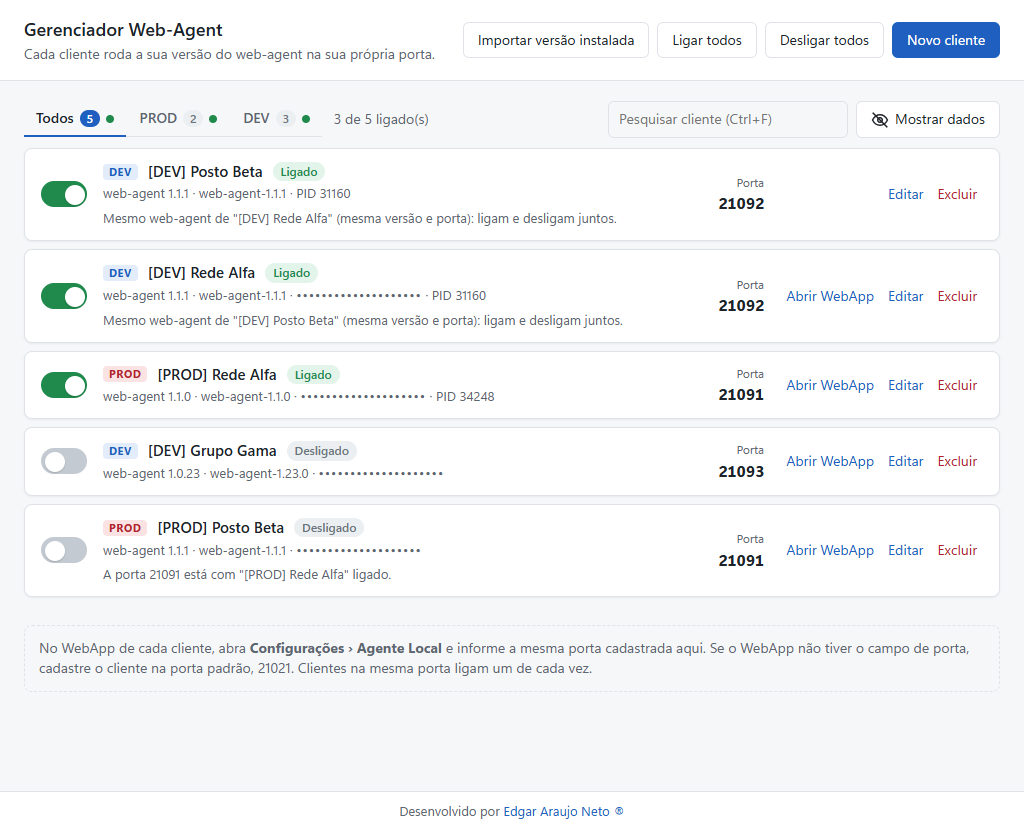
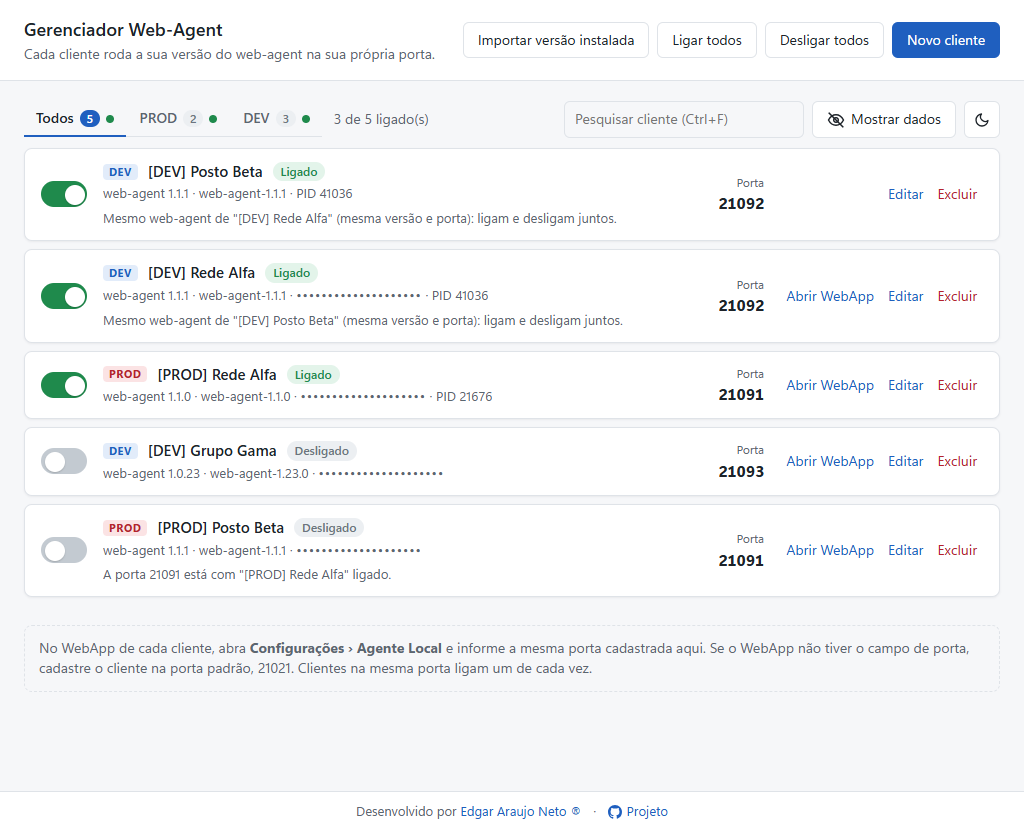
Tema claro e escuro, link do GitHub e imagem atualizada

diff --git a/README.md b/README.md
@@ -34,6 +34,7 @@ O Gerenciador Web-Agent guarda cada versão numa pasta própria e abre cada uma 
 - **Abas PROD e DEV:** separam os ambientes. "Ligar todos" e "Desligar todos" valem só para a aba aberta.
 - **Busca por nome:** sem diferença de maiúsculas e acentos. Atalho Ctrl+F.
 - **URL oculta:** a URL do WebApp começa escondida, para não aparecer num compartilhamento de tela.
+- **Tema claro e escuro:** segue o tema do Windows. O botão com a lua ou o sol, ao lado de "Mostrar dados", troca o tema, e o gerenciador lembra a escolha.
 - **Ligados no topo:** a lista mostra primeiro os clientes ligados.
 - **Bandeja do Windows:** o gerenciador fica perto do relógio. Pelo menu do ícone, você liga e desliga clientes sem abrir a janela.
 - **Iniciar com o Windows:** o gerenciador abre direto na bandeja e liga os clientes marcados.
@@ -143,7 +144,7 @@ Cadastre o cliente na porta padrão, 21021. Veja [Clientes na mesma porta](#clie
 
 Encontrou um problema ou tem uma ideia? [Abra uma issue](../../issues/new/choose) e escolha **Problema** ou **Sugestão**.
 
-O link **Página do projeto**, no rodapé do gerenciador, abre esta página. Por ela você também acompanha as versões novas.
+O link **Projeto**, com o símbolo do GitHub, no rodapé do gerenciador, abre esta página. Por ela você também acompanha as versões novas.
 
 Não coloque na issue URLs, nomes de clientes ou prints com dados de clientes.
 
